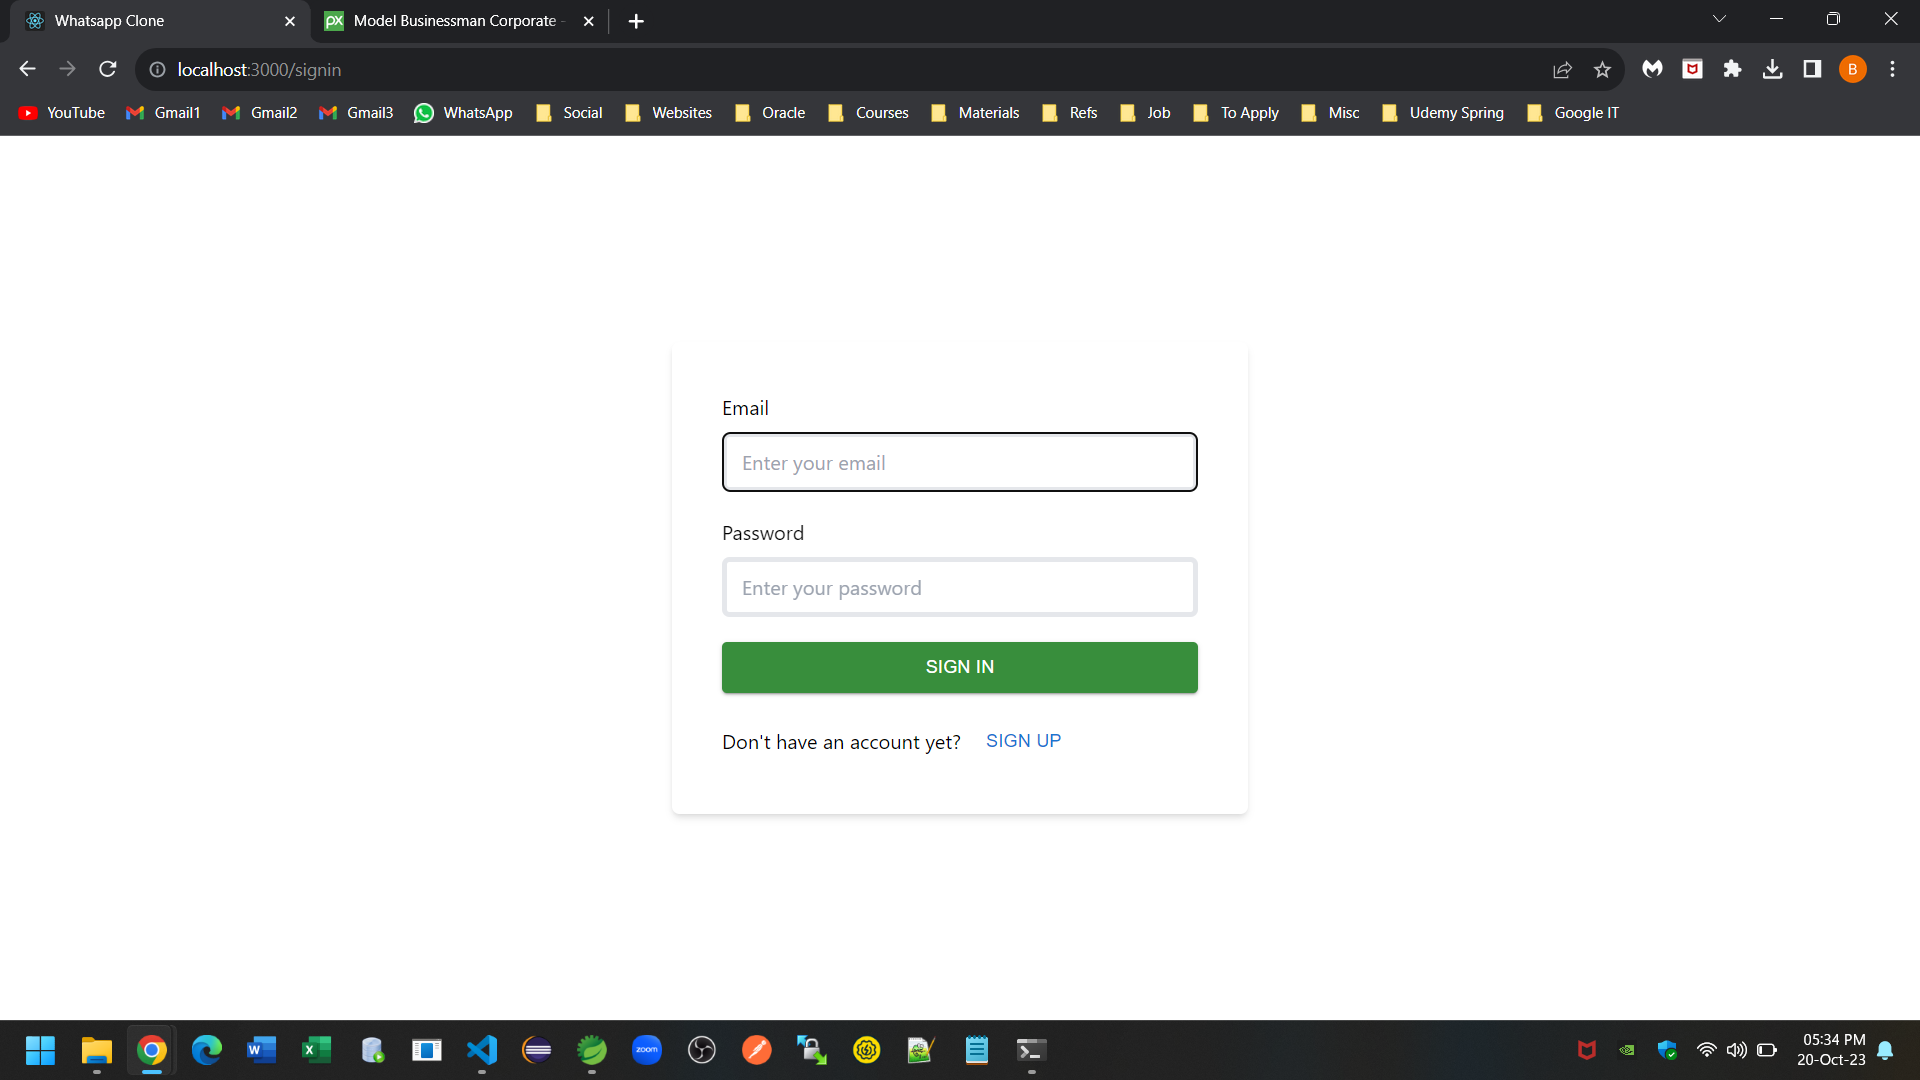
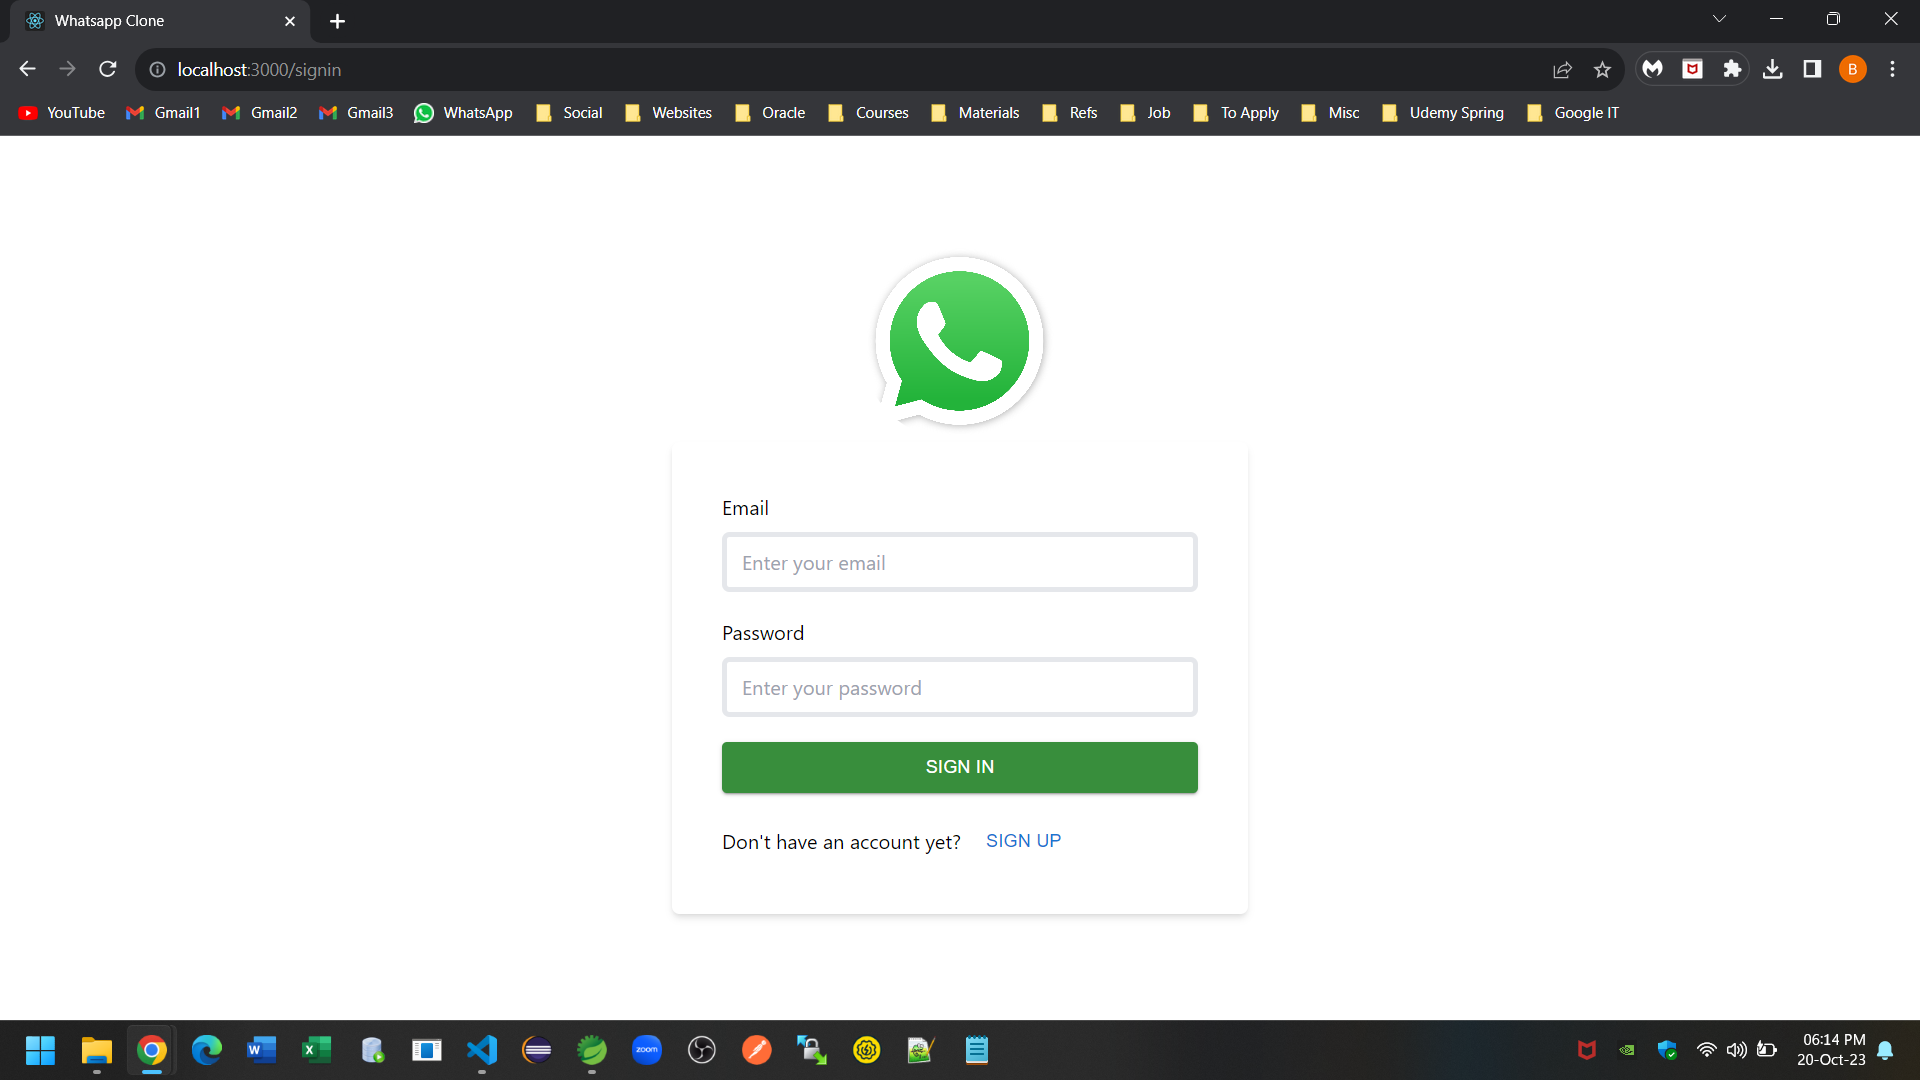
modified frontend

Changed region(s): [[0.375, 0.2444, 0.625, 0.7944], [0.1562, 0.0, 0.2812, 0.0306], [0.5312, 0.9472, 0.5625, 0.9778]]

diff --git a/whatsapp-frontend/src/components/register/Signup.jsx b/whatsapp-frontend/src/components/register/Signup.jsx
@@ -1,4 +1,4 @@
-import { Button, Snackbar, Alert } from "@mui/material";
+import { Button, Snackbar, Alert, Avatar } from "@mui/material";
 import { green } from "@mui/material/colors";
 import React, { useEffect, useState } from "react";
 import { useDispatch, useSelector } from "react-redux";
@@ -46,6 +46,8 @@ const Signup = () => {
     <div>
       <div>
         <div className="flex flex-col justify-center min-h-screen items-center">
+        <Avatar sx={{width:"10rem",height:"10rem"}}
+          alt="profile icon"   src={"https://upload.wikimedia.org/wikipedia/commons/thumb/6/6b/WhatsApp.svg/2044px-WhatsApp.svg.png"}/>
           <div className="w-[30%] p-10 shadow-md bg-white rounded-md">
             <form onSubmit={handleSubmit} className="space-y-5">
               <div>

diff --git a/whatsapp-frontend/src/components/register/Signin.jsx b/whatsapp-frontend/src/components/register/Signin.jsx
@@ -1,4 +1,4 @@
-import { Button, Snackbar, Alert } from "@mui/material";
+import { Button, Snackbar, Alert, Avatar } from "@mui/material";
 import { green } from "@mui/material/colors";
 import React, { useEffect, useState } from "react";
 import { useNavigate } from "react-router-dom";
@@ -48,6 +48,8 @@ const Signin = () => {
           />
         </div>  */}
         <div className="flex flex-col justify-center min-h-screen items-center">
+        <Avatar sx={{width:"10rem",height:"10rem"}}
+          alt="profile icon"   src={"https://upload.wikimedia.org/wikipedia/commons/thumb/6/6b/WhatsApp.svg/2044px-WhatsApp.svg.png"}/>
         <div className="w-[30%] p-10 shadow-md bg-white rounded-md">
           <form onSubmit={handleSubmit} className="space-y-5">
             <div>
